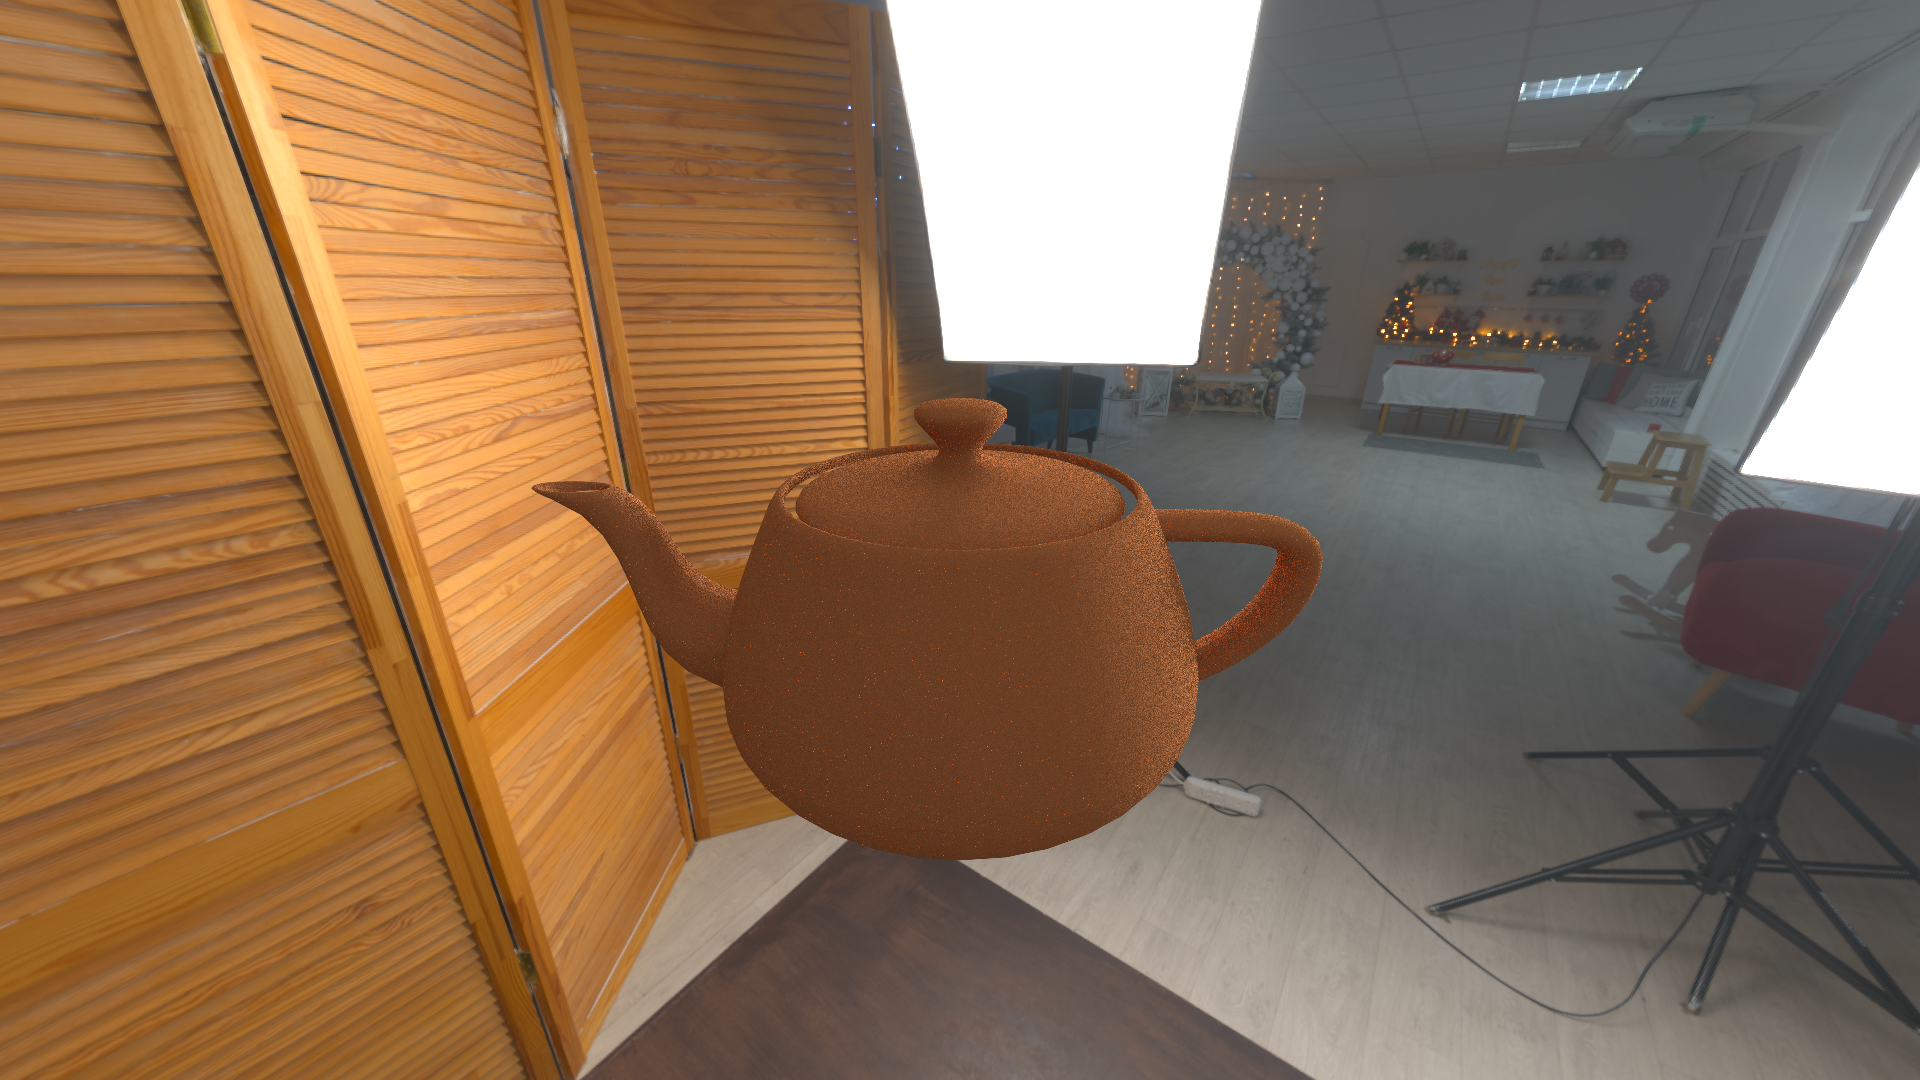
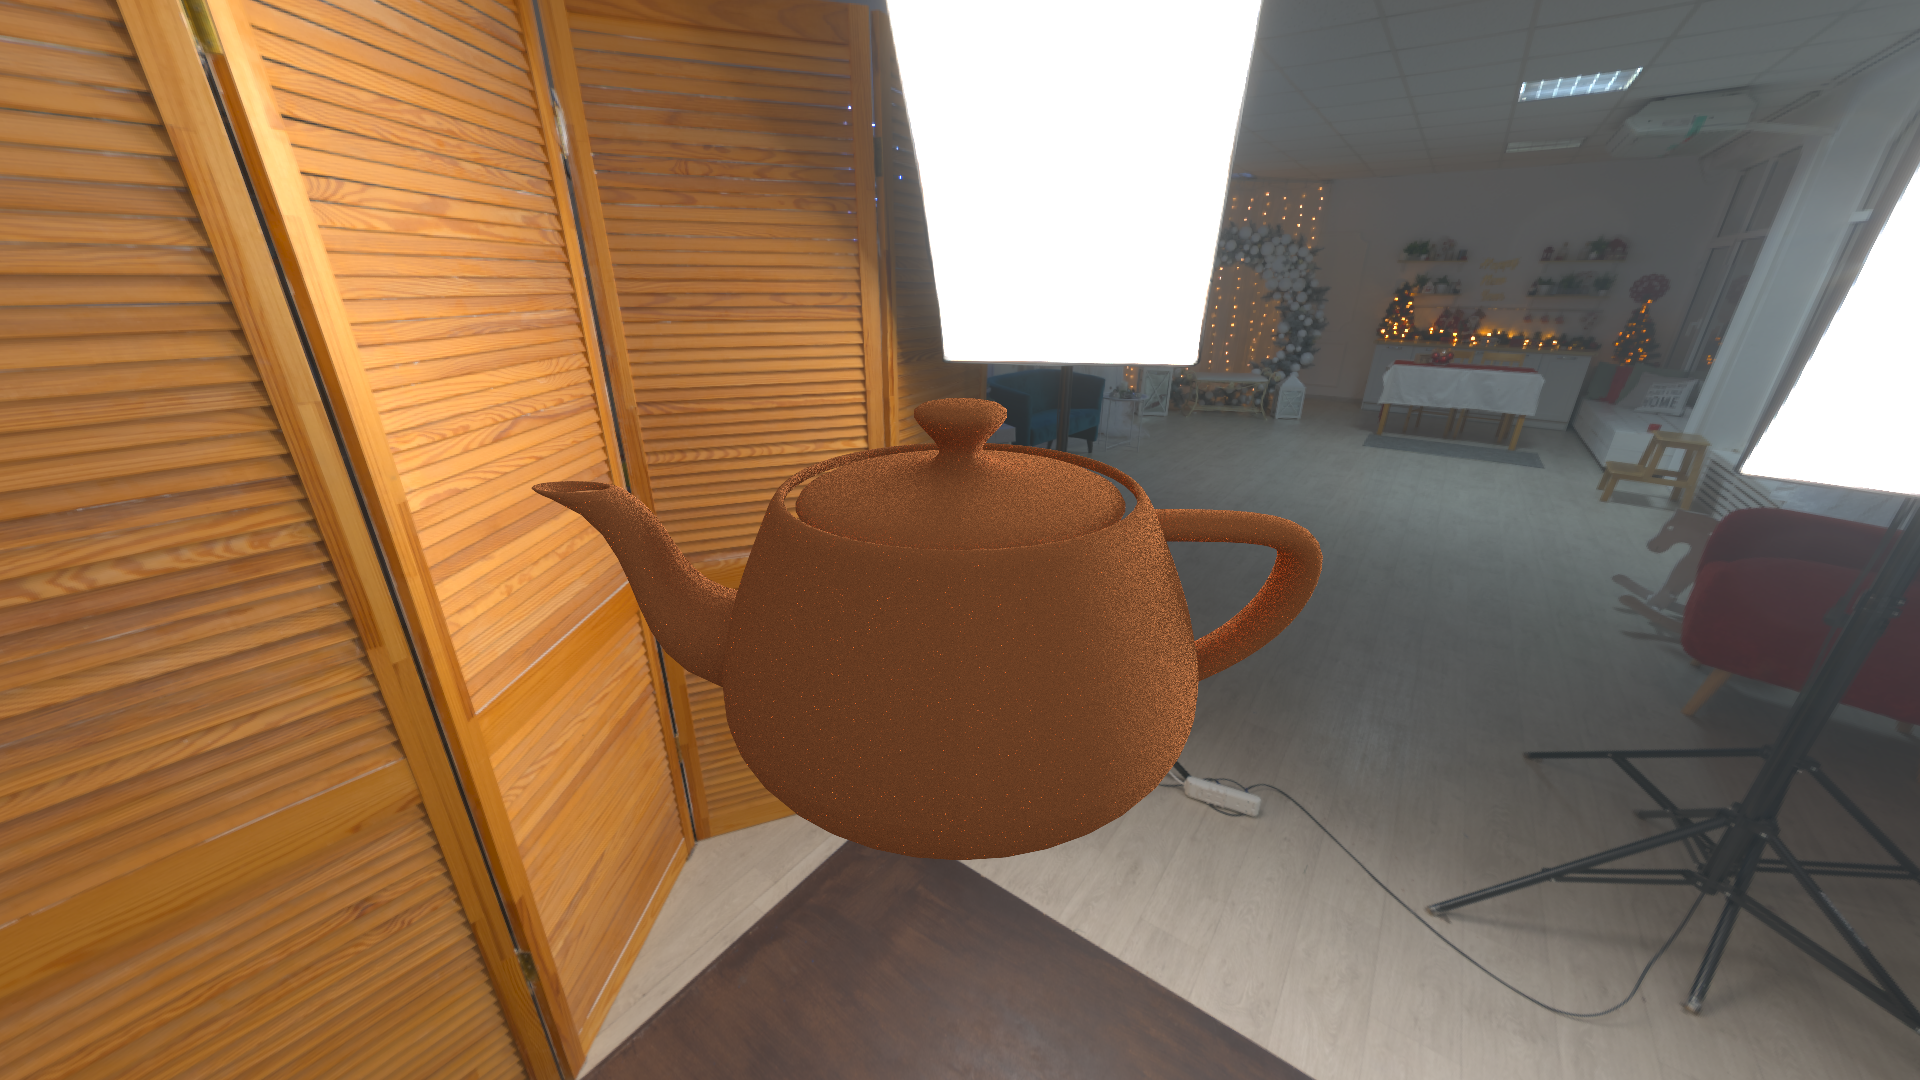
Slight optimization

Changed region(s): [[0.4062, 0.3667, 0.6875, 0.7333], [0.3438, 0.5194, 0.375, 0.55], [0.3125, 0.4583, 0.3438, 0.4889]]

diff --git a/src/bvh/mod.rs b/src/bvh/mod.rs
@@ -11,11 +11,7 @@ use std::{
 
 use crate::{bvh::triangle::TriangleMaterial, error::Error, ray_resolver::MaterialType, utilities::{Components, Vector3}};
 
-use self::{
-    aabb::AABBRayResolver,
-    multi_ray_resolver::MultiRayResolver,
-    triangle::{Triangle, TriangleResolver},
-};
+use self::{aabb::{AABB, AABBRayResolver}, multi_ray_resolver::MultiRayResolver, triangle::{Triangle, TriangleResolver}};
 
 pub mod aabb;
 pub mod dummy;
@@ -116,13 +112,16 @@ pub fn triangles_from_file<P: AsRef<Path> + fmt::Debug>(filename: P) -> Result<V
     Ok(triangles)
 }
 
-pub fn generate_bvh(triangles: Vec<Triangle>) -> Result<AABBRayResolver, Error> {
-    _generate_bvh(triangles, Components::X)
+fn get_bounding_box(triangles: &Vec<Triangle>)->AABB{
+    let mut aabb = triangles[0].bounds();
+    for triangle in triangles{
+        aabb = aabb.union(&triangle.bounds())
+    }
+    aabb
 }
 
-fn _generate_bvh(
-    mut triangles: Vec<Triangle>,
-    orientation: Components,
+pub fn generate_bvh(
+    mut triangles: Vec<Triangle>
 ) -> Result<AABBRayResolver, Error> {
     if triangles.len() < 1 {
         return Err(Error::new(
@@ -133,13 +132,15 @@ fn _generate_bvh(
         //Return single triangle
         let triangle = triangles[0].clone();
         let mut aabb = triangle.bounds();
-        let margin: Vector3 = aabb.max.subtract(aabb.min).multiply(1.0/100.0); //Add a small margin around the triangle
-        aabb.min = aabb.min.subtract(margin);
-        aabb.max = aabb.max.add(margin);
+        //let margin: Vector3 = aabb.max.subtract(aabb.min).multiply(1.0/100.0); //Add a small margin around the triangle
+        //aabb.min = aabb.min.subtract(margin);
+        //aabb.max = aabb.max.add(margin);
         let inner = TriangleResolver { triangle };
         let resolver = AABBRayResolver::new(aabb, inner);
         return Ok(resolver);
     }
+    let bounds = get_bounding_box(&triangles);
+    let orientation = bounds.size().largest_component(); //Divide among the longest dimension
     //Divide triangles among the median
     let (t1, t2) = {
         let index = triangles.len() / 2;
@@ -153,10 +154,8 @@ fn _generate_bvh(
     };
 
     //Recursive generate BVH for each branch
-    let bvh1 = _generate_bvh(t1, orientation.next())?;
-    let bvh2 = _generate_bvh(t2, orientation.next())?;
-    //Calculate size of current AABB
-    let bounds = bvh1.aabb.union(&bvh2.aabb);
+    let bvh1 = generate_bvh(t1)?;
+    let bvh2 = generate_bvh(t2)?;
     let bvh1 = Box::new(bvh1);
     let bvh2 = Box::new(bvh2);
     //Create MultiRayResolver

diff --git a/src/bvh/aabb.rs b/src/bvh/aabb.rs
@@ -103,6 +103,9 @@ impl AABB {
             max: Vector3::new(xmax, ymax, zmax),
         }
     }
+    pub fn size(&self)->Vector3{
+        self.max.subtract(self.min)
+    }
 }
 
 pub struct AABBRayResolver {
